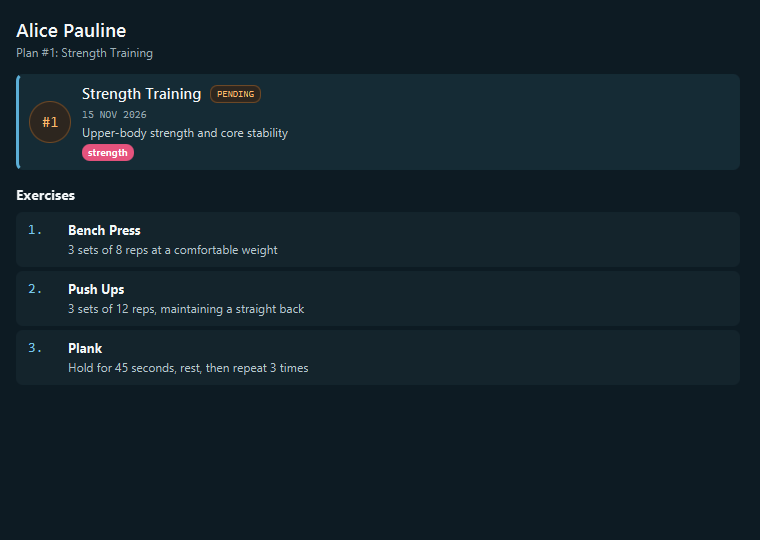
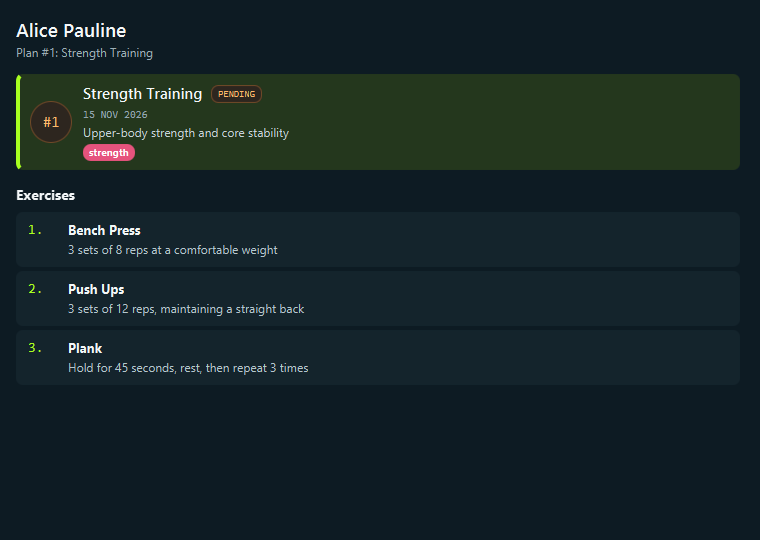
Align selected plan view with existing UI style

Changed region(s): [[0.0, 0.1481, 0.3934, 0.3259], [0.0303, 0.6222, 0.0605, 0.6519]]

diff --git a/src/main/resources/view/DarkTheme.css b/src/main/resources/view/DarkTheme.css
@@ -459,8 +459,9 @@
 }
 
 .workout-plan-card.workout-plan-selected {
-    -fx-background-color: #152b35;
-    -fx-border-color: #5caed6;
+    -fx-background-color: #24371d;
+    -fx-border-color: #a8ff20;
+    -fx-border-width: 0 0 0 4px;
 }
 
 .exercise-section-heading {
@@ -480,7 +481,7 @@
     -fx-min-width: 30px;
     -fx-font-family: "Cascadia Mono", "Consolas", monospace;
     -fx-font-size: 13px;
-    -fx-text-fill: #74c7ed;
+    -fx-text-fill: #a8ff20;
 }
 
 .exercise-name {

diff --git a/src/main/java/seedu/address/ui/WorkoutPlanListPanel.java b/src/main/java/seedu/address/ui/WorkoutPlanListPanel.java
@@ -48,9 +48,9 @@ public class WorkoutPlanListPanel extends UiPart<Region> {
     }
 
     /** Displays either the student's plans or the selected plan's exercises. */
-    public void showStudent(Optional<Student> student, Optional<WorkoutPlan> plan) {
+    public void showStudent(Optional<Student> student, Optional<WorkoutPlan> selectedPlan) {
         requireNonNull(student);
-        requireNonNull(plan);
+        requireNonNull(selectedPlan);
         if (student.isEmpty()) {
             heading.setText("Workout Plans");
             subtitle.setManaged(false);
@@ -63,10 +63,10 @@ public class WorkoutPlanListPanel extends UiPart<Region> {
         Student selectedStudent = student.get();
         String studentName = selectedStudent.getName().toString();
         List<WorkoutPlan> workoutPlans = selectedStudent.getWorkoutPlansList().getWorkoutList();
-        int selectedPlanIndex = plan.map(value -> indexOfInstance(workoutPlans, value)).orElse(-1);
+        int selectedPlanIndex = selectedPlan.map(value -> indexOfInstance(workoutPlans, value)).orElse(-1);
         heading.setText(studentName);
         subtitle.setText(selectedPlanIndex < 0 ? "Workout plans"
-                : "Plan #" + (selectedPlanIndex + 1) + ": " + plan.get().getTitle());
+                : "Plan #" + (selectedPlanIndex + 1) + ": " + selectedPlan.get().getTitle());
         subtitle.setManaged(true);
         subtitle.setVisible(true);
         if (selectedPlanIndex >= 0) {
@@ -89,16 +89,16 @@ public class WorkoutPlanListPanel extends UiPart<Region> {
         }
     }
 
-    private void showSelectedPlan(WorkoutPlan plan, int displayedIndex) {
+    private void showSelectedPlan(WorkoutPlan selectedPlan, int displayedIndex) {
         workoutPlanList.getChildren().clear();
-        Region planCard = new WorkoutPlanCard(plan, displayedIndex).getRoot();
+        Region planCard = new WorkoutPlanCard(selectedPlan, displayedIndex).getRoot();
         planCard.getStyleClass().add("workout-plan-selected");
         workoutPlanList.getChildren().add(planCard);
 
         Label exercisesHeading = new Label("Exercises");
         exercisesHeading.getStyleClass().add("exercise-section-heading");
         workoutPlanList.getChildren().add(exercisesHeading);
-        List<Exercise> exercises = plan.getExercisesList().getExerciseList();
+        List<Exercise> exercises = selectedPlan.getExercisesList().getExerciseList();
         if (exercises.isEmpty()) {
             Label noExercises = new Label("No exercises in this workout plan.");
             noExercises.getStyleClass().add("empty-message");
@@ -135,9 +135,9 @@ public class WorkoutPlanListPanel extends UiPart<Region> {
         return entry;
     }
 
-    private static int indexOfInstance(List<WorkoutPlan> plans, WorkoutPlan selectedPlan) {
-        for (int index = 0; index < plans.size(); index++) {
-            if (plans.get(index) == selectedPlan) {
+    private static int indexOfInstance(List<WorkoutPlan> workoutPlans, WorkoutPlan selectedPlan) {
+        for (int index = 0; index < workoutPlans.size(); index++) {
+            if (workoutPlans.get(index) == selectedPlan) {
                 return index;
             }
         }

diff --git a/src/main/java/seedu/address/ui/MainWindow.java b/src/main/java/seedu/address/ui/MainWindow.java
@@ -129,13 +129,13 @@ public class MainWindow extends UiPart<Stage> {
         workoutPlanListPanel = new WorkoutPlanListPanel();
         workoutPlanPanelPlaceholder.getChildren().add(workoutPlanListPanel.getRoot());
         Optional<Student> initialStudent = Optional.ofNullable(logic.currentStudentProperty().get());
-        Optional<WorkoutPlan> initialPlan = Optional.ofNullable(logic.currentWorkoutPlanProperty().get());
-        workoutPlanListPanel.showStudent(initialStudent, initialPlan);
+        Optional<WorkoutPlan> initialWorkoutPlan = Optional.ofNullable(logic.currentWorkoutPlanProperty().get());
+        workoutPlanListPanel.showStudent(initialStudent, initialWorkoutPlan);
         studentListPanel.selectStudent(initialStudent);
         logic.currentStudentProperty().addListener((observable, oldStudent, newStudent) -> {
             Optional<Student> selectedStudent = Optional.ofNullable(newStudent);
-            Optional<WorkoutPlan> selectedPlan = Optional.ofNullable(logic.currentWorkoutPlanProperty().get());
-            workoutPlanListPanel.showStudent(selectedStudent, selectedPlan);
+            Optional<WorkoutPlan> selectedWorkoutPlan = Optional.ofNullable(logic.currentWorkoutPlanProperty().get());
+            workoutPlanListPanel.showStudent(selectedStudent, selectedWorkoutPlan);
             studentListPanel.selectStudent(selectedStudent);
         });
         logic.currentWorkoutPlanProperty().addListener((observable, oldPlan, newPlan) ->

diff --git a/src/main/java/seedu/address/model/ModelManager.java b/src/main/java/seedu/address/model/ModelManager.java
@@ -339,15 +339,15 @@ public class ModelManager implements Model {
         currentWorkoutPlan.set(null);
     }
 
-    private static WorkoutPlan retainedSelectedPlan(Student updated, WorkoutPlan selectedPlan) {
-        List<WorkoutPlan> updatedPlans = updated.getWorkoutPlansList().getWorkoutList();
+    private static WorkoutPlan retainedSelectedPlan(Student updatedStudent, WorkoutPlan selectedPlan) {
+        List<WorkoutPlan> updatedPlans = updatedStudent.getWorkoutPlansList().getWorkoutList();
         int index = indexOfInstance(updatedPlans, selectedPlan);
         return index < 0 ? null : updatedPlans.get(index);
     }
 
-    private static int indexOfInstance(List<WorkoutPlan> plans, WorkoutPlan target) {
-        for (int index = 0; index < plans.size(); index++) {
-            if (plans.get(index) == target) {
+    private static int indexOfInstance(List<WorkoutPlan> workoutPlans, WorkoutPlan target) {
+        for (int index = 0; index < workoutPlans.size(); index++) {
+            if (workoutPlans.get(index) == target) {
                 return index;
             }
         }

diff --git a/docs/UserGuide.md b/docs/UserGuide.md
@@ -240,7 +240,7 @@ Format: `viewPlan PLAN_ID`
 
 Example: `viewStudent 1` followed by `viewPlan 2` opens the second plan and highlights it above its exercises.
 
-![Selected workout plan and its exercises](images/selectedPlanView.png)
+![Example selected workout plan with sample exercises](images/selectedPlanView.png)
 
 #### Deleting a workout plan: `deletePlan`
 
